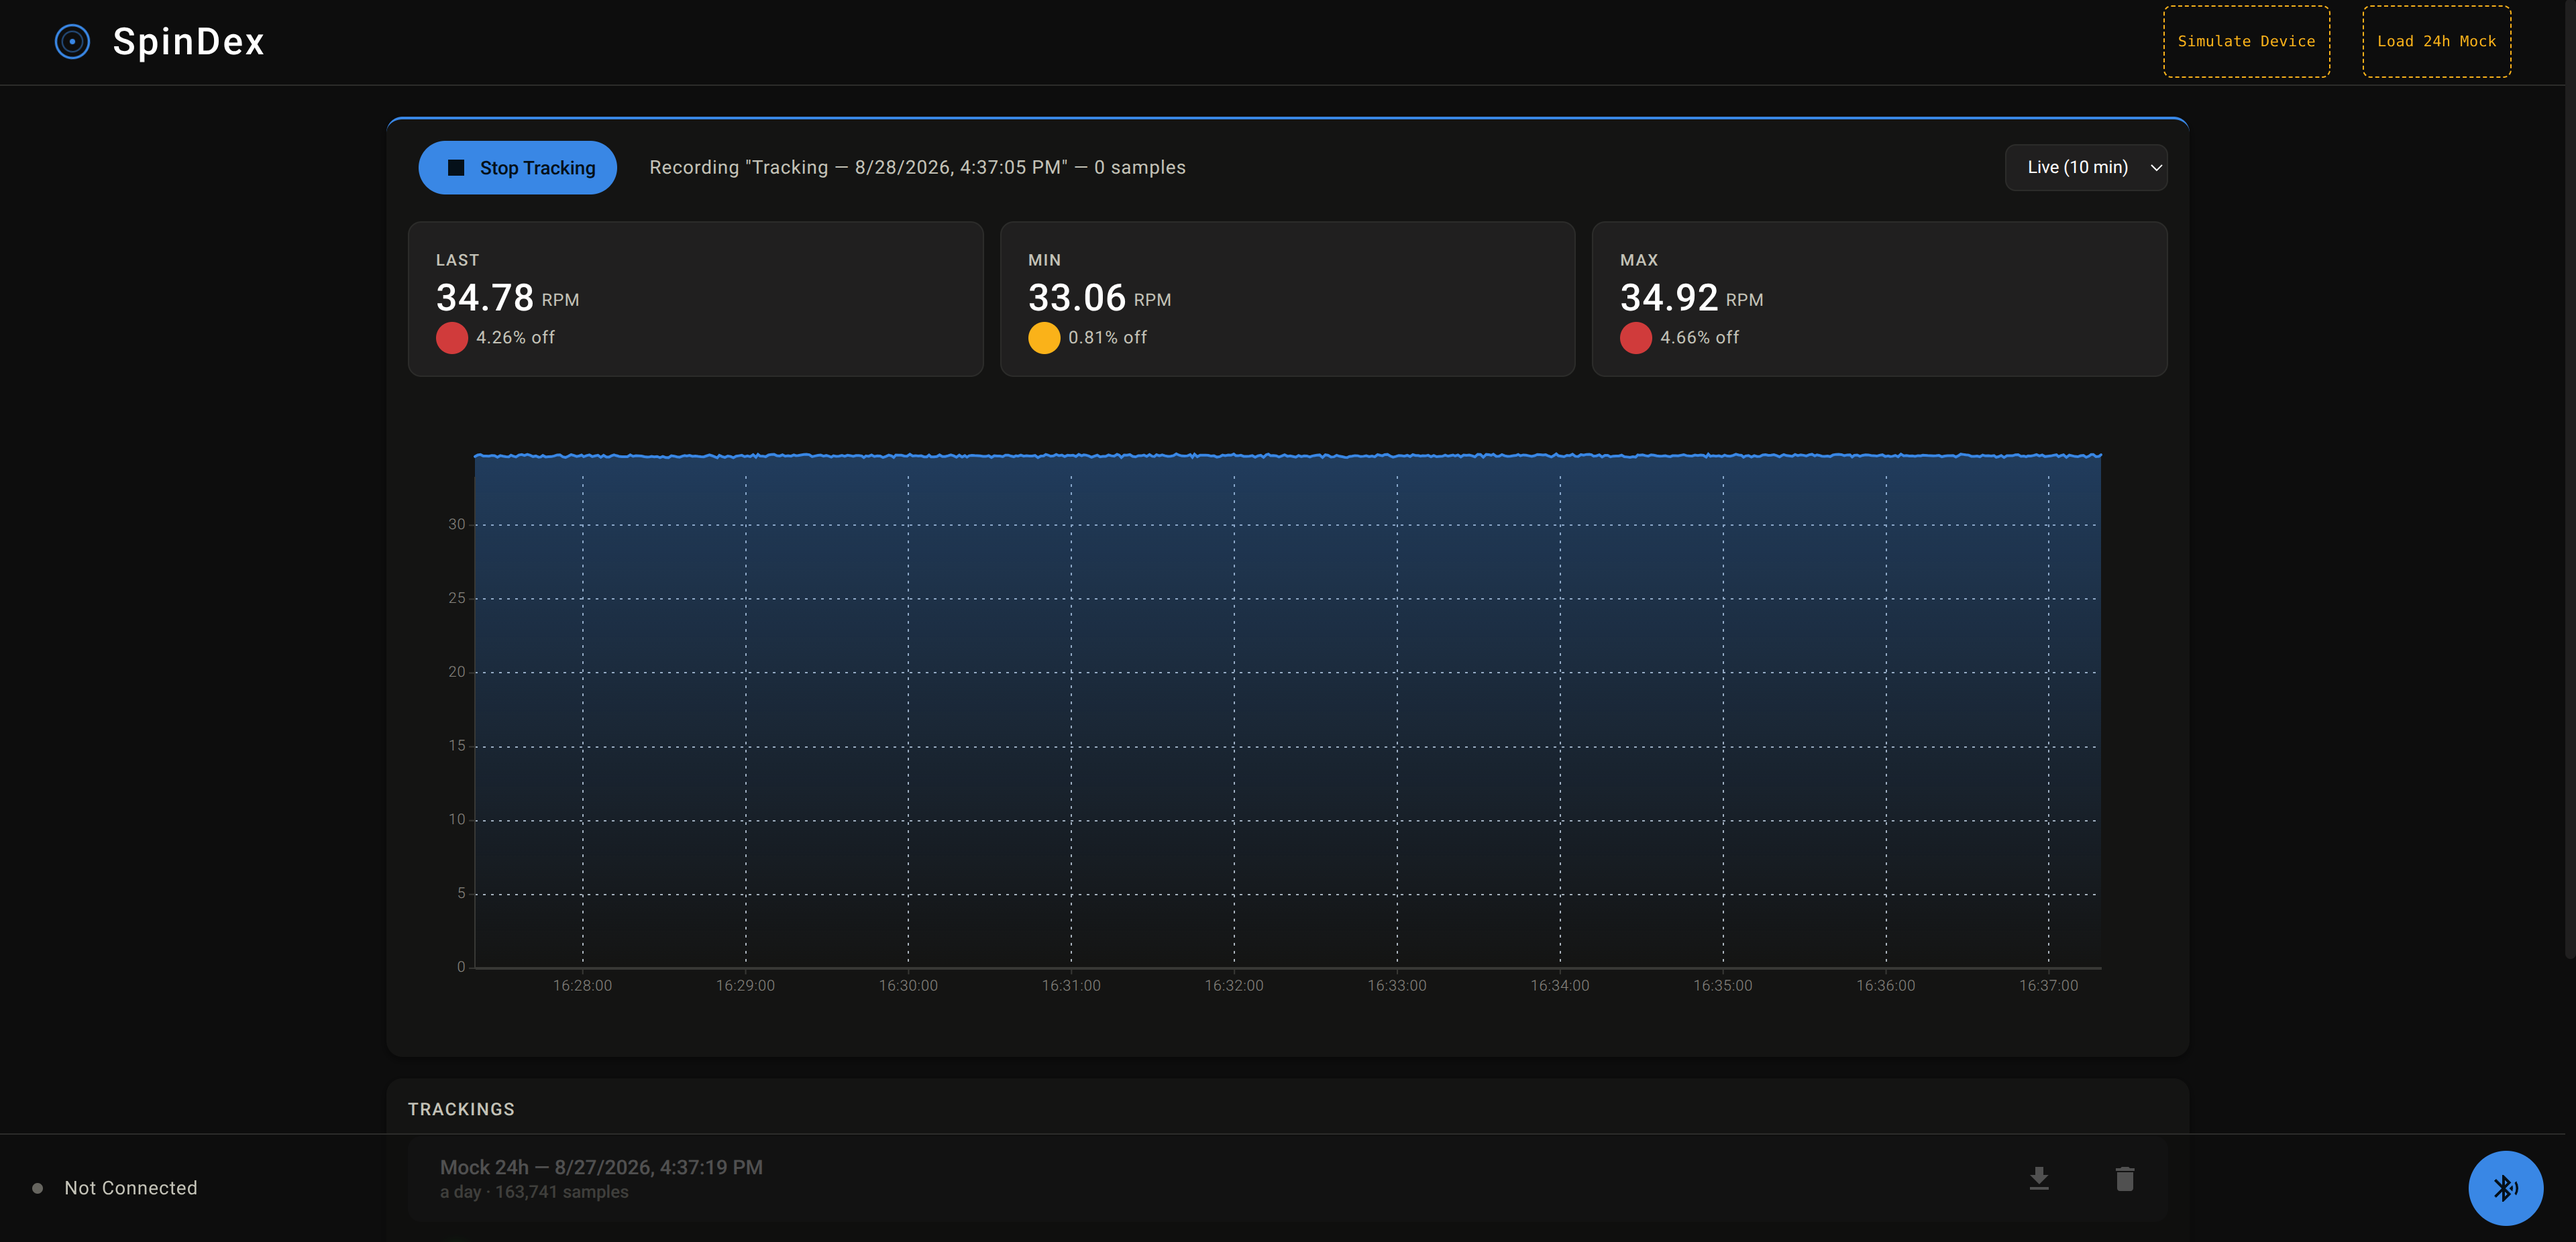
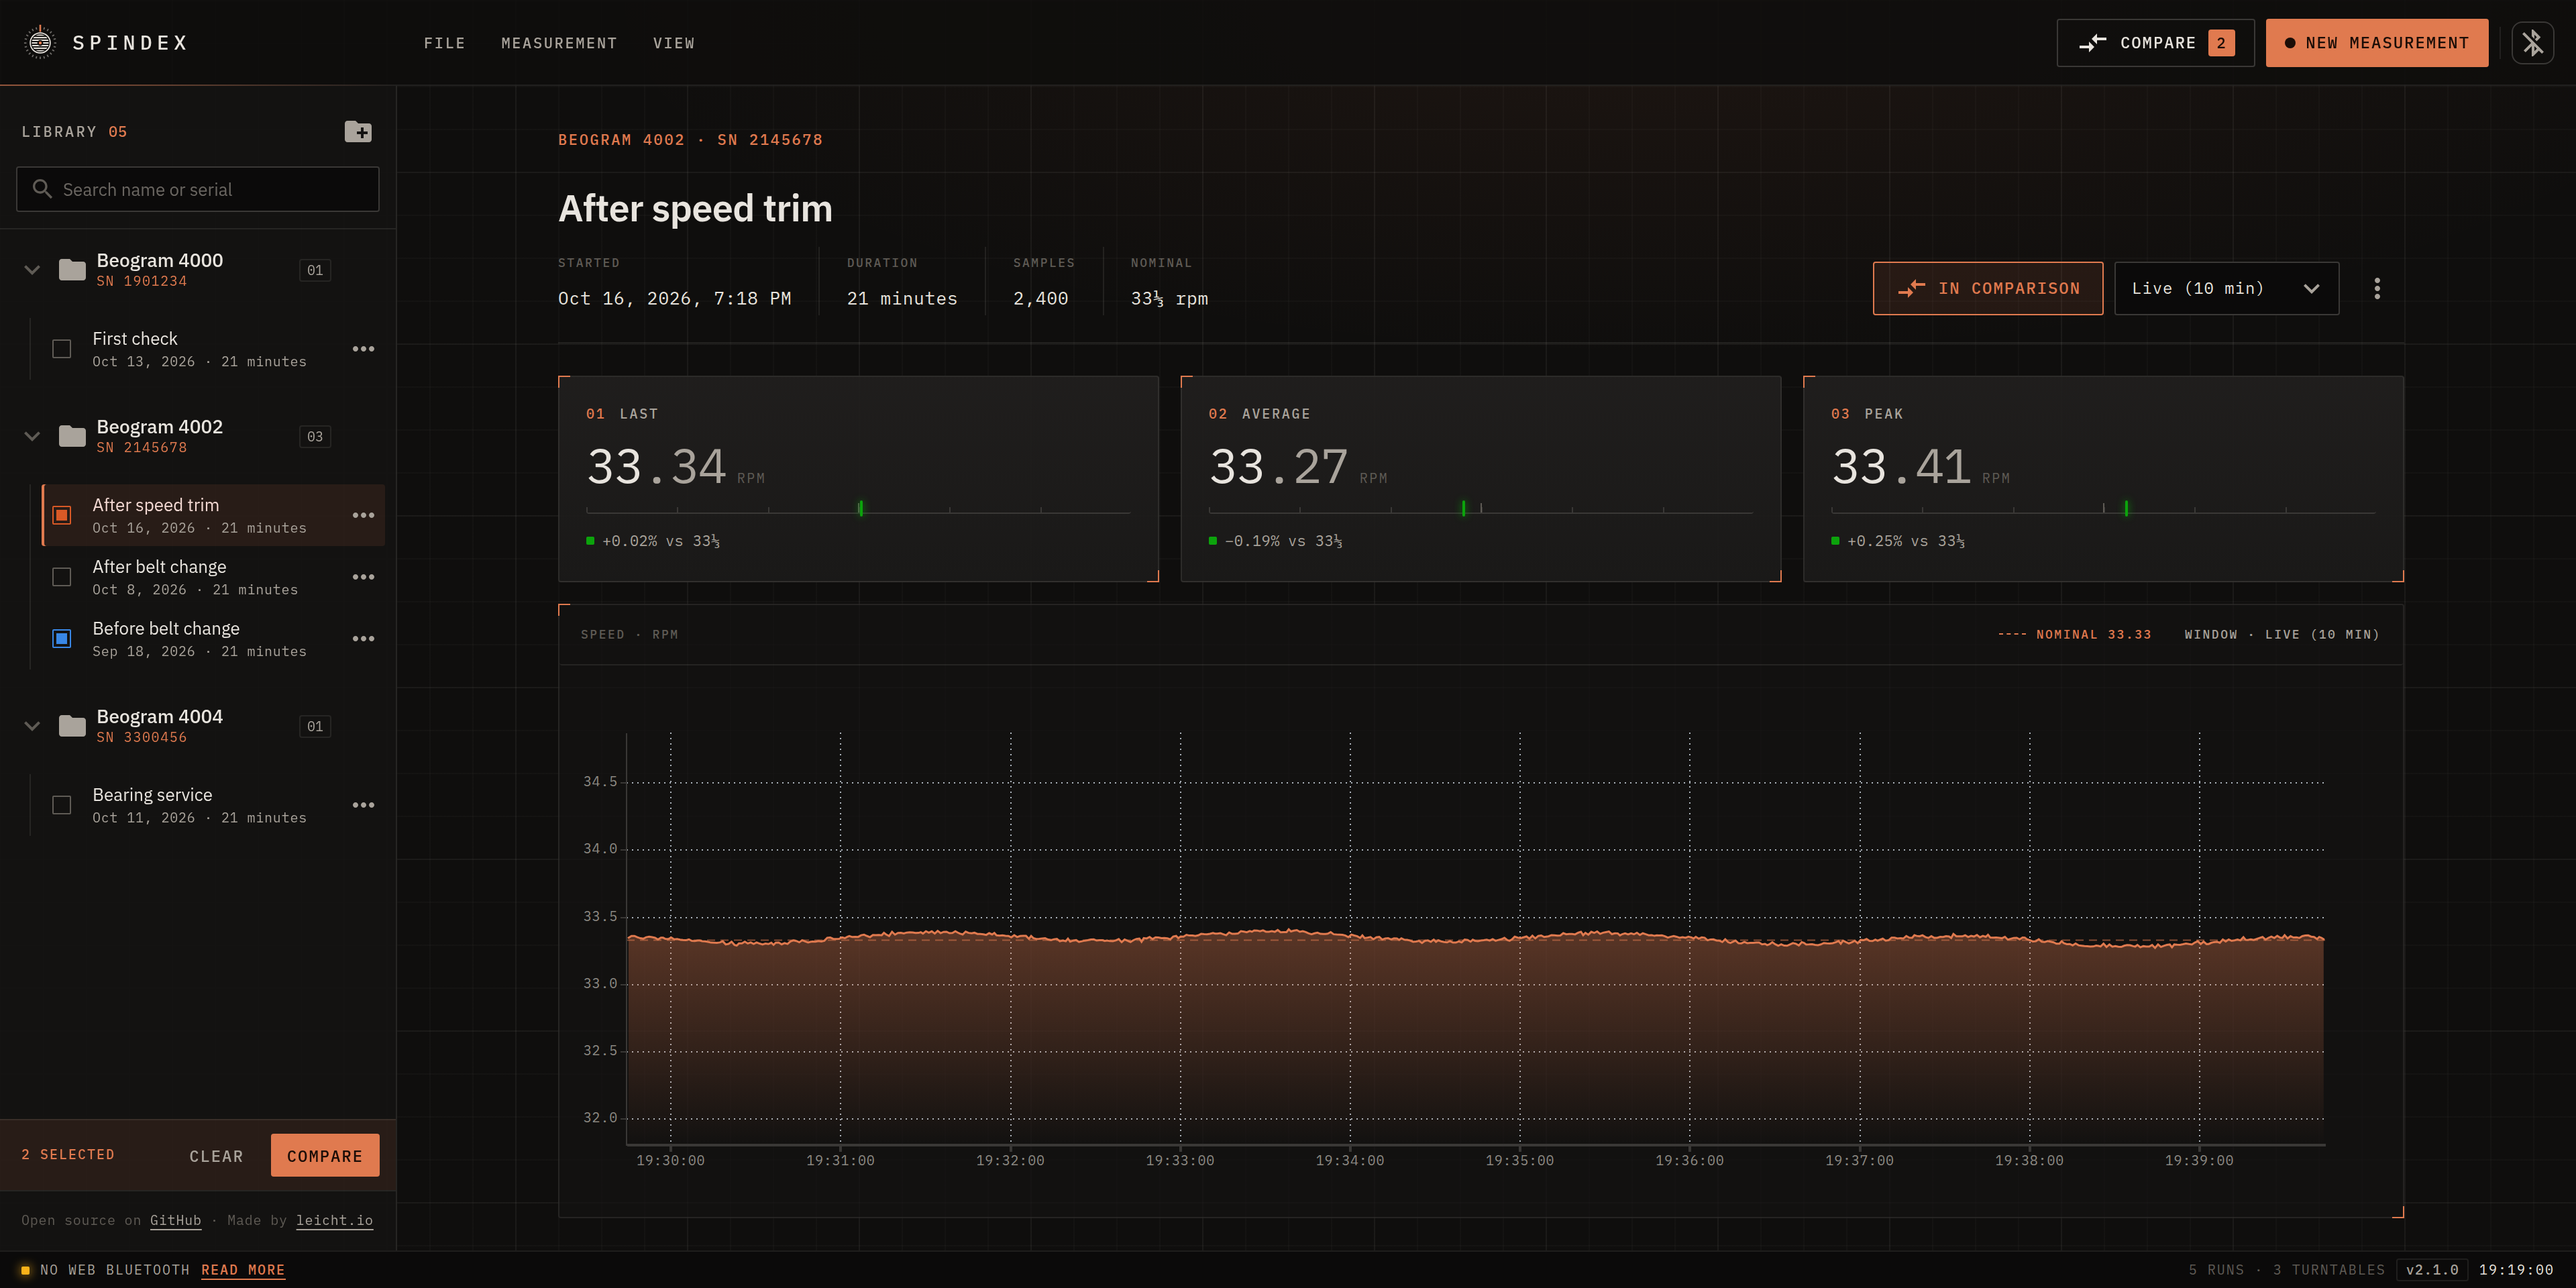
docs: new enclosure parts with chassis spacer, renders and updated README
- Update spindex_bottom.stl and spindex_top.stl; add spindex_spacer.stl,
  an optional insert for the other chassis width of Beogram
  4000/4002/4004 variants
- Add exploded and assembled renders of the enclosure
- Rewrite the web-app section of the README for the current app and add
  fresh measurement and comparison screenshots

diff --git a/README.md b/README.md
@@ -8,32 +8,59 @@ This mono repository is divided into multiple sub-repositories, explained below:
 ![alt text](3d-files/in_use.jpg)
 
 ### 3D Files (3d-files):
-This folder contains all the 3D models.
-- spindex_bottom.stl
-- spindex_top.stl
+This folder contains the printable enclosure:
+- `spindex_bottom.stl`: the base. It holds the electronics and sensor, and its curved jaw hooks onto the turntable chassis.
+- `spindex_top.stl`: the lid.
+- `spindex_spacer.stl`: an optional insert (about 2.8 mm thick) that clips into the base's jaw. The chassis width differs between production variants of the Beogram 4000, 4002 and 4004: print the base as-is for one width, and add the spacer to fit the other.
 
-![alt text](3d-files/spindex.PNG)
+![SpinDex enclosure](3d-files/spindex.PNG)
+
+| Exploded: lid, base and spacer | Assembled with the spacer fitted |
+|---|---|
+| ![Exploded view](3d-files/spindex_exploded.png) | ![Assembled with spacer](3d-files/spindex_assembled_spacer.png) |
 
 ---
 
 ### Web App (web-app)
-This folder contains the web app. It connects to the controller over Bluetooth (Web Bluetooth — Chrome/Edge on desktop or Android, no install needed) and displays the live RPM as a temporal line graph. It's hosted publicly, free to use, at **https://spindex.leicht.io/**.
+This folder contains the web app. It connects to the controller over Bluetooth (Web Bluetooth, no install needed) and records, organises and compares RPM measurements. It's hosted publicly, free to use, at **https://spindex.leicht.io/**.
 
 Features:
-- Pair with the controller over Web Bluetooth, with automatic reconnect on a dropped connection so an unattended run rides out a transient disconnect.
-- Start/stop tracking sessions, persisted locally in the browser (IndexedDB) — a page refresh or reconnect doesn't lose the running session.
-- Keep multiple tracking sessions around and switch between them from the Trackings list, including revisiting past (stopped) sessions.
-- Name a tracking when starting it, or rename it later from the Trackings list.
-- Live stat tiles for current/average/max RPM and % deviation from the nominal 33⅓/45 RPM target, colour-coded by how far off spec.
-- Selectable chart time window (Live 10 min / 1h / 6h / 12h / 24h / All), auto-bucketed to a fixed point budget so even a 24h session stays smooth to render.
-- Gap-aware charting — a BLE disconnect or closed tab shows as a clearly marked gap in the plot rather than a misleading flat or interpolated line.
-- CSV export of any tracking session for offline analysis.
-- Delete old tracking sessions.
-- Single dark, "precision-instrument" themed UI.
+- **Desktop-style layout**: a menu bar (File / Measurement / View), a library sidebar and a status bar showing the Bluetooth link, a live recording readout, the app version and a clock.
+- **Turntable folders**: measurements are grouped per turntable, identified by model and serial number (e.g. "Beogram 4002 · SN 2145678"). Pick or create the turntable when starting a measurement; typing an existing model/serial files it with the earlier runs. Search the library by name or serial.
+- **Recording**: start/stop measurements, persisted locally in the browser (IndexedDB), so a page refresh or reconnect doesn't lose a running session. Automatic reconnect rides out a dropped Bluetooth link during an unattended run.
+- **Measurement view**: current/average/peak readouts with their deviation from the nominal 33⅓/45 RPM on a small gauge, colour-coded by how far off spec, plus a chart that zooms to the measured range and marks the nominal speed.
+- **Chart time windows** (Live 10 min / 1h / 6h / 12h / 24h / All), auto-bucketed to a fixed point budget so even a 24h session stays smooth.
+- **Gap-aware charting**: a disconnect or closed tab shows as a marked gap rather than a misleading flat or interpolated line.
+- **Compare**: overlay up to eight measurements aligned by time since start (e.g. before/after a belt change), with a hover readout and a stats table: mean, drift from nominal, rev-to-rev standard deviation, min and max, ignoring spin-up and stopped readings.
+- **Organise**: rename, move between folders, export as CSV, delete.
+- **Help when Bluetooth isn't available**: a "Read more" dialog lists supported browsers and how to continue on each platform. Browsing and comparing saved measurements works in any browser; only recording needs Web Bluetooth.
+- **Changelog**: click the version in the status bar.
+- Works from phone to desktop: below 900px the library becomes a drawer, and below 720px the menus fold into one overflow menu.
+- Dark, instrument-style design after the leicht.io look: IBM Plex Sans / Plex Mono and a copper accent.
 
-Unit tests for the pure logic (chart bucketing/gap detection, CSV export) run via `yarn test`, see `web-app/package.json`.
+Browser support for recording (Web Bluetooth):
 
-![alt text](documentation/images/desktop_screenshot.png)
+| Browser | Platforms | |
+|---|---|---|
+| Google Chrome | Windows 10+, macOS, ChromeOS, Android 6+ | ✓ |
+| Microsoft Edge | Windows, macOS | ✓ |
+| Samsung Internet, Opera | Android | ✓ |
+| Chrome on Linux | Linux | behind `chrome://flags/#enable-experimental-web-platform-features`, BlueZ 5.41+ |
+| Bluefy | iPhone, iPad | ✓ (third-party app) |
+| Safari, Firefox | all | ✕ |
+
+Measurements are stored per browser; export as CSV to move them elsewhere.
+
+Development, from `web-app/`:
+- `yarn start`: dev server (HTTPS, required for Web Bluetooth).
+- `yarn build`: production build.
+- `yarn test`: unit tests for the pure logic (chart bucketing/gap detection, CSV export, measurement stats, folder grouping, changelog/version consistency).
+
+Releases are listed in `web-app/app/core/changelog.ts`. Its newest entry must match the `version` in `web-app/package.json` (a unit test checks this), so bump both together.
+
+![SpinDex web app: measurement view](documentation/images/desktop_screenshot.png)
+
+![SpinDex web app: comparing three runs](documentation/images/compare_screenshot.png)
 
 ---
 
